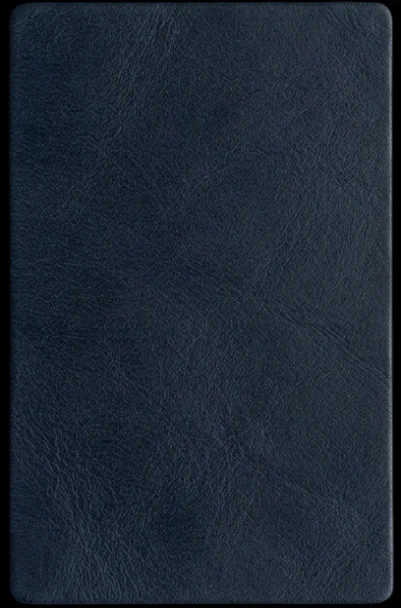
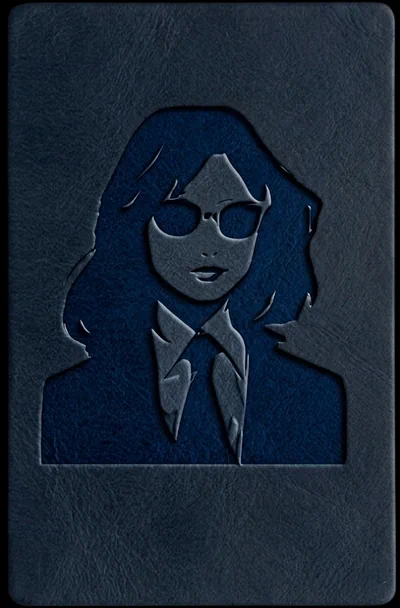
Game Ready, Single Audio

diff --git a/src/App.css b/src/App.css
@@ -95,3 +95,91 @@ h1 {
   line-height: 1.4;
   margin: 0;
 }
+
+.setup-cover {
+  position: relative;
+  width: min(80vw, 400px);
+  aspect-ratio: 400 / 608;
+  border-radius: 16px;
+  overflow: hidden;
+}
+
+.setup-cover-img {
+  width: 100%;
+  height: 100%;
+  object-fit: contain;
+  display: block;
+}
+
+.setup-players-note {
+  position: absolute;
+  top: 33%;
+  left: 50%;
+  transform: translate(-50%, -50%);
+  width: 90%;
+  aspect-ratio: 415 / 276;
+}
+
+.setup-players-img {
+  width: 100%;
+  height: 100%;
+  object-fit: contain;
+  display: block;
+}
+
+.setup-players-controls {
+  position: absolute;
+  top: 64%;
+  left: 50%;
+  transform: translate(calc(-50% + 0.5em), -50%);
+  display: flex;
+  align-items: center;
+  justify-content: center;
+  gap: 0.1em;
+  font-size: clamp(2.5rem, 14vw, 4rem);
+}
+
+.setup-players-input {
+  border: none;
+  background: transparent;
+  font-family: 'Gloria Hallelujah', cursive;
+  font-size: inherit;
+  color: #1a1a2e;
+  text-align: center;
+  width: 2ch;
+  -moz-appearance: textfield;
+}
+
+.setup-players-input::-webkit-outer-spin-button,
+.setup-players-input::-webkit-inner-spin-button {
+  -webkit-appearance: none;
+  margin: 0;
+}
+
+.setup-players-input:focus {
+  outline: none;
+}
+
+.setup-players-arrow {
+  appearance: none;
+  font-size: inherit;
+  width: 0.23em;
+  height: 0.29em;
+  margin: 0;
+  padding: 0;
+  border: none;
+  outline: none;
+  background-color: #000;
+  cursor: pointer;
+  flex: none;
+}
+
+.setup-players-arrow-left {
+  clip-path: polygon(100% 0%, 100% 100%, 0% 50%);
+  transform: rotate(-15deg) translateY(0.15em);
+}
+
+.setup-players-arrow-right {
+  clip-path: polygon(0% 0%, 0% 100%, 100% 50%);
+  transform: rotate(-15deg) translateY(-0.15em);
+}

diff --git a/src/screens/SetupScreen.tsx b/src/screens/SetupScreen.tsx
@@ -1,5 +1,7 @@
 import { useState } from 'react';
 import type { GameConfig } from '../types';
+import coverImage from '../Assets/Images/Blue Cover.webp';
+import playersImage from '../Assets/Images/Players.png';
 
 interface SetupScreenProps {
   initialConfig: GameConfig;
@@ -8,7 +10,6 @@ interface SetupScreenProps {
 
 export default function SetupScreen({ initialConfig, onStart }: SetupScreenProps) {
   const [numPlayers, setNumPlayers] = useState(initialConfig.numPlayers);
-  const [numSpies, setNumSpies] = useState(initialConfig.numSpies);
   const [error, setError] = useState<string | null>(null);
 
   function handleStart() {
@@ -16,41 +17,51 @@ export default function SetupScreen({ initialConfig, onStart }: SetupScreenProps
       setError('Need at least 3 players');
       return;
     }
-    if (!Number.isInteger(numSpies) || numSpies < 1) {
-      setError('Need at least 1 spy');
-      return;
-    }
-    if (numSpies >= numPlayers) {
-      setError('Number of spies must be less than number of players');
-      return;
-    }
     setError(null);
-    onStart({ numPlayers, numSpies });
+    onStart({ numPlayers, numSpies: 1 });
+  }
+
+  function decrement() {
+    setNumPlayers((prev) => Math.max(3, prev - 1));
+  }
+
+  function increment() {
+    setNumPlayers((prev) => prev + 1);
   }
 
   return (
     <div className="screen setup-screen">
-      <h1>Spy</h1>
-      <label className="field">
-        <span>Number of players</span>
-        <input
-          type="number"
-          inputMode="numeric"
-          min={3}
-          value={numPlayers}
-          onChange={(e) => setNumPlayers(Number(e.target.value))}
-        />
-      </label>
-      <label className="field">
-        <span>Number of spies</span>
-        <input
-          type="number"
-          inputMode="numeric"
-          min={1}
-          value={numSpies}
-          onChange={(e) => setNumSpies(Number(e.target.value))}
-        />
-      </label>
+      <div className="btn-primary" aria-hidden="true" style={{ visibility: 'hidden' }}>
+        Start
+      </div>
+      <div className="setup-cover">
+        <img src={coverImage} alt="" className="setup-cover-img" />
+        <div className="setup-players-note">
+          <img src={playersImage} alt="" className="setup-players-img" />
+          <div className="setup-players-controls">
+            <button
+              type="button"
+              className="setup-players-arrow setup-players-arrow-left"
+              onClick={decrement}
+              aria-label="Decrease players"
+            />
+            <input
+              type="number"
+              inputMode="numeric"
+              min={3}
+              value={numPlayers}
+              onChange={(e) => setNumPlayers(Number(e.target.value))}
+              className="setup-players-input"
+            />
+            <button
+              type="button"
+              className="setup-players-arrow setup-players-arrow-right"
+              onClick={increment}
+              aria-label="Increase players"
+            />
+          </div>
+        </div>
+      </div>
       {error && <p className="error">{error}</p>}
       <button className="btn-primary" onClick={handleStart}>
         Start

diff --git a/src/screens/FlipScreen.tsx b/src/screens/FlipScreen.tsx
@@ -1,8 +1,9 @@
-import { useState } from 'react';
+import { useRef, useState } from 'react';
 import FlipCardImage from '../components/FlipCardImage';
 import type { RoundData } from '../types';
 import coverImage from '../Assets/Images/Blue Cover.webp';
 import paperImage from '../Assets/Images/Blue Paper.webp';
+import revealSound from '../Assets/Audio/Reveal.mp4';
 
 interface FlipScreenProps {
   roundData: RoundData;
@@ -14,6 +15,10 @@ export default function FlipScreen({ roundData, numPlayers, onAllPlayersDone }: 
   const [currentPlayerIndex, setCurrentPlayerIndex] = useState(0);
   const [isFlipped, setIsFlipped] = useState(false);
   const [isAnimating, setIsAnimating] = useState(false);
+  const revealAudioRef = useRef<HTMLAudioElement | null>(null);
+  if (!revealAudioRef.current) {
+    revealAudioRef.current = new Audio(revealSound);
+  }
 
   const isSpy = roundData.spyIndices.includes(currentPlayerIndex);
   const backContent = isSpy ? 'SPY' : roundData.location;
@@ -21,6 +26,11 @@ export default function FlipScreen({ roundData, numPlayers, onAllPlayersDone }: 
   function handleTap() {
     if (isAnimating) return;
     setIsAnimating(true);
+    if (!isFlipped) {
+      const audio = revealAudioRef.current!;
+      audio.currentTime = 0;
+      void audio.play();
+    }
     setIsFlipped((prev) => !prev);
   }
 
@@ -40,9 +50,9 @@ export default function FlipScreen({ roundData, numPlayers, onAllPlayersDone }: 
 
   return (
     <div className="screen flip-screen" onClick={handleTap}>
-      <p className="player-label">
-        Player {currentPlayerIndex + 1} of {numPlayers}
-      </p>
+      <div className="btn-primary" aria-hidden="true" style={{ visibility: 'hidden' }}>
+        Start
+      </div>
       <FlipCardImage
         isFlipped={isFlipped}
         frontImage={coverImage}
@@ -50,6 +60,9 @@ export default function FlipScreen({ roundData, numPlayers, onAllPlayersDone }: 
         backText={backContent}
         onTransitionEnd={handleTransitionEnd}
       />
+      <div className="btn-primary" aria-hidden="true" style={{ visibility: 'hidden' }}>
+        Start
+      </div>
     </div>
   );
 }